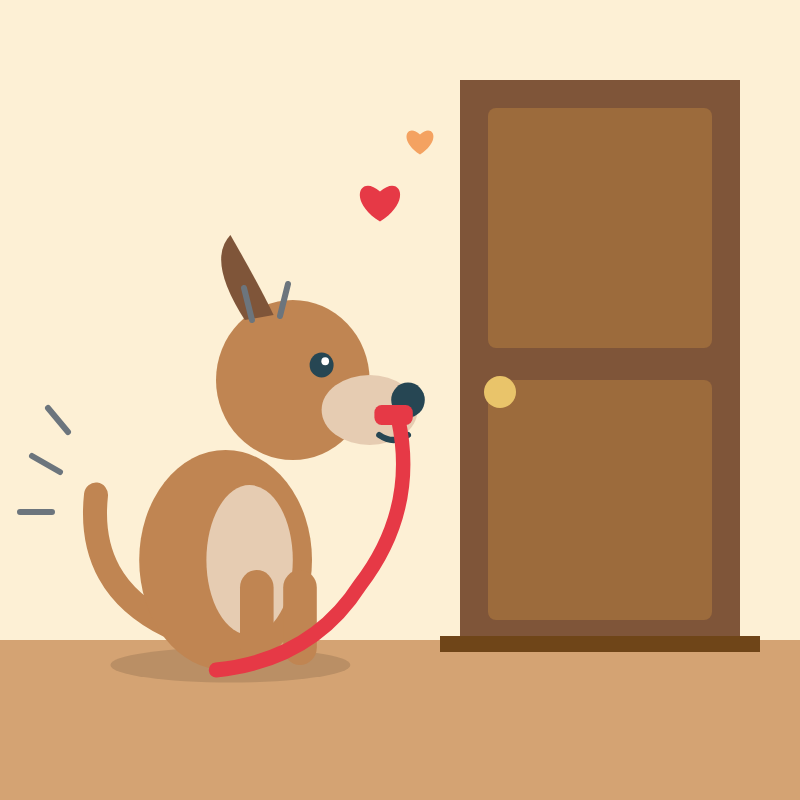
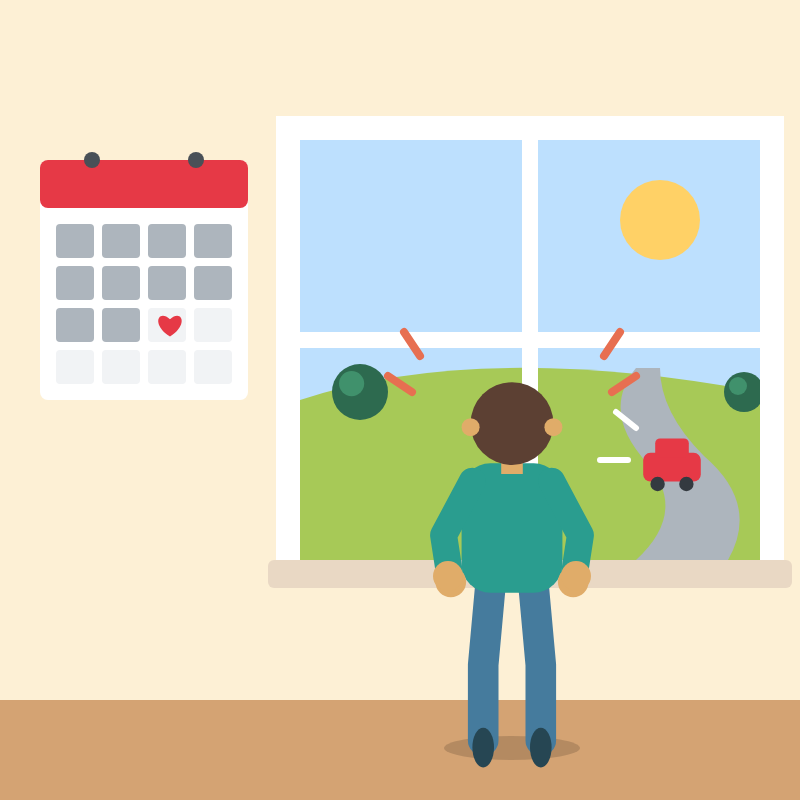
Redraw the picture for "anticipating"
A child on tiptoe at the window watches a car come up the road, beside a
wall calendar whose days are crossed off up to the one marked with a
heart.

Claude-Session: https://claude.ai/code/session_012AFdoXqDmyhe4pDydHQ1Qn

diff --git a/tools/vocab_drawings/batch_03.py b/tools/vocab_drawings/batch_03.py
@@ -468,17 +468,37 @@ def alter():
 
 
 def anticipating():
-    b = ['<rect y="320" width="400" height="80" fill="#d4a373"/>',
-         '<rect x="230" y="40" width="140" height="282" fill="#7f5539"/>',
-         '<rect x="244" y="54" width="112" height="120" rx="4" fill="#9c6b3c"/>',
-         '<rect x="244" y="190" width="112" height="120" rx="4" fill="#9c6b3c"/>',
-         '<circle cx="250" cy="196" r="8" fill="#e9c46a"/>',
-         '<rect x="220" y="318" width="160" height="8" fill="#6f4518"/>',
-         dog(120, 330, 1.25, "open", leash=True),
-         '<path d="M30 236 l-14 -8 M26 256 h-16 M34 216 l-10 -12" stroke="#6c757d" stroke-width="3" '
-         'stroke-linecap="round"/>',
-         '<path d="M126 160 l-4 -16 M140 158 l4 -16" stroke="#6c757d" stroke-width="3" stroke-linecap="round"/>',
-         heart(190, 100, 12), heart(210, 70, 8, "#f4a261")]
+    back = (f'<circle cx="0" cy="-178" r="23" fill="#5c4033"/>'
+            f'<circle cx="-23" cy="-176" r="5" fill="{SKIN[1]}"/><circle cx="23" cy="-176" r="5" fill="{SKIN[1]}"/>')
+    b = ['<rect y="350" width="400" height="50" fill="#d4a373"/>',
+         # the window, with a car on its way up the road
+         '<rect x="150" y="70" width="230" height="210" fill="#bde0fe"/>',
+         '<circle cx="330" cy="110" r="20" fill="#ffd166"/>',
+         '<path d="M150 200 Q240 170 380 196 V280 H150 Z" fill="#a7c957"/>',
+         '<path d="M318 184 Q300 206 324 232 Q344 256 318 280 H364 Q380 252 352 228 Q330 206 330 184 Z" fill="#adb5bd"/>',
+         '<g transform="translate(336 236) scale(1.2)"><rect x="-12" y="-8" width="24" height="12" rx="3" fill="#e63946"/>'
+         '<rect x="-7" y="-14" width="14" height="8" rx="2" fill="#e63946"/>'
+         '<circle cx="-6" cy="5" r="3" fill="#343a40"/><circle cx="6" cy="5" r="3" fill="#343a40"/></g>',
+         '<path d="M318 214 l-10 -8 M314 230 h-14" stroke="#fff" stroke-width="3" stroke-linecap="round"/>',
+         bush(180, 196, 14), bush(372, 196, 10),
+         '<rect x="144" y="64" width="242" height="222" fill="none" stroke="#fff" stroke-width="12"/>',
+         '<path d="M265 64 V286 M144 170 H386" stroke="#fff" stroke-width="8"/>',
+         '<rect x="134" y="280" width="262" height="14" rx="3" fill="#e9d8c4"/>',
+         # the wall calendar: every day before the big one already gone
+         '<rect x="20" y="80" width="104" height="120" rx="4" fill="#fff"/>',
+         '<rect x="20" y="80" width="104" height="24" rx="4" fill="#e63946"/>',
+         '<circle cx="46" cy="80" r="4" fill="#495057"/><circle cx="98" cy="80" r="4" fill="#495057"/>']
+    for k in range(16):
+        x, y = 28 + (k % 4) * 23, 112 + (k // 4) * 21
+        fill = "#adb5bd" if k < 10 else "#f1f3f5"
+        b.append(f'<rect x="{x}" y="{y}" width="19" height="17" rx="2" fill="{fill}"/>')
+    b.append(heart(39 + 2 * 23, 120 + 2 * 21, 7))
+    b += [shadow(256, 374, 34),
+          person(256, 372, .9, SKIN[1], "#2a9d8f", "#457b9d", "#5c4033", "none", tiptoe=True,
+                 larm=((-16, 30), (-12, 56)), rarm=((16, 30), (12, 56)), extra=back),
+          f'<circle cx="224" cy="288" r="7.5" fill="{SKIN[1]}"/><circle cx="288" cy="288" r="7.5" fill="{SKIN[1]}"/>',
+          '<path d="M206 196 l-12 -8 M210 178 l-8 -12 M306 196 l12 -8 M302 178 l8 -12" stroke="#e76f51" '
+          'stroke-width="4" stroke-linecap="round"/>']
     return svg(b, "#fdf0d5")
 
 
